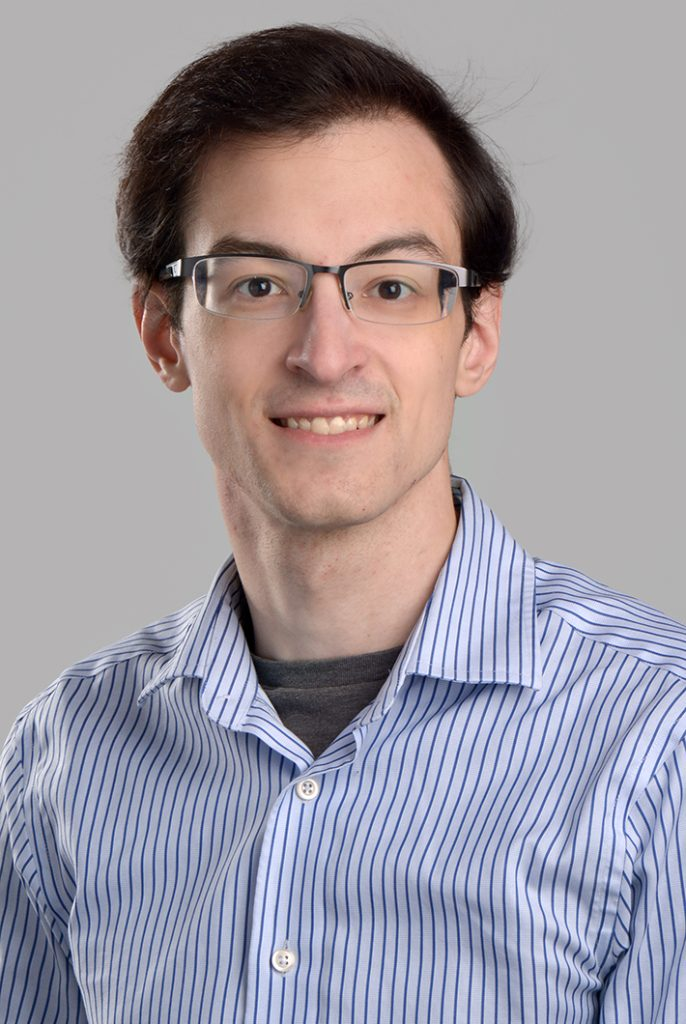
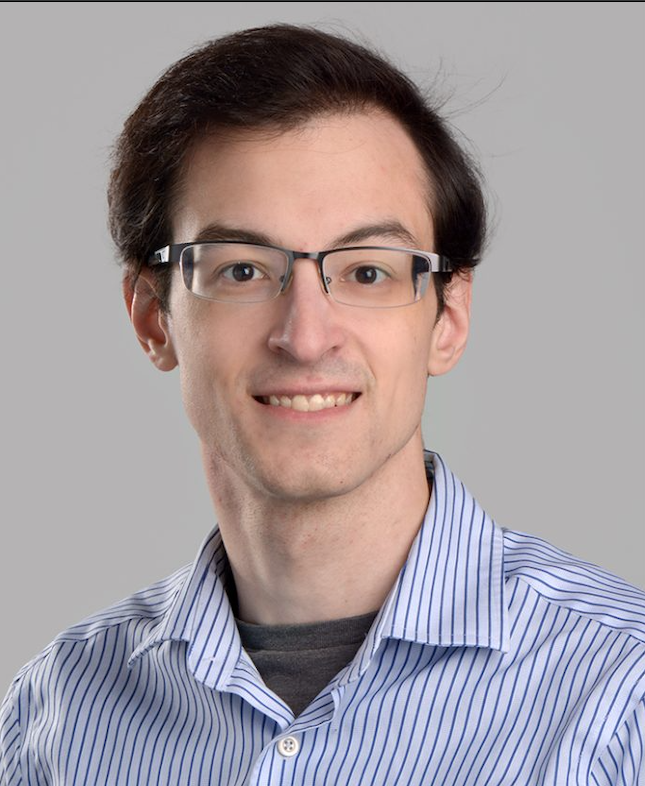
Updated team page

diff --git a/team.html b/team.html
@@ -20,17 +20,47 @@
   </header>
 
   <main>
-    <section class="team">
+    <section class="team current-members">
+      <h2>Current Members</h2>
       <div class="member">
         <img src="images/members/roberto.jpg" alt="Principal Investigator">
         <h3>Roberto Pili, M.D.</h3>
         <p>Principal Investigator</p>
+        <p> Roberto Pili, MD, is associate dean for cancer research and integrative oncology, and professor and chief of the Division of Hematology/Oncology in the Department of Medicine.<br><br>
+            As associate dean, he is responsible for building the academic infrastructure for innovative and collaborative cancer research at UB and on the Buffalo Niagara Medical Campus, particularly in the areas of immunotherapies, drug development and delivery, epigenetics and lifestyle-dietary interventions. He is the founder of the UB Cancer Research Consortium.<br><br>
+            An international recognized expert in genitourinary malignancies, Pili specializes in research on the role of epigenetic modifications in overcoming drug resistance and modulating response to immunotherapies. His laboratory is also studying the impact of dietary interventions as adjuvant tools in patients receiving cancer treatments.<br><br>
+            Pili holds several patent applications and is conducting several investigators-initiated clinical trials for the treatment of genitourinary malignancies. His laboratory is based at the school’s Clinical and Translational Science Institute, and his work is funded by grants from the National Cancer Institutes and the Department of Defense.<br><br>
+            Pili received his medical degree from Catholic University School of Medicine in Rome and completed fellowships with National Institutes of Health’s National Institute on Aging in biological chemistry and Johns Hopkins University in medical oncology. He has published 200 articles in peer-reviewed journals and serves as a reviewer for several medical journals and grants study sections of the National Cancer Institutes and the Department of Defense.</p>
+        <ul>
+          <li><a href="https://scholar.google.com/citations?user=gmHmhsMAAAAJ&hl=en&oi=ao" target="_blank">Google Scholar</a></li>
+          <li><a href="mailto:rpili@buffalo.edu" target="_blank">Email</a></li>
+        </ul>
       </div>
 
       <div class="member">
         <img src="images/members/sabrina.jpg" alt="PhD Candidate">
         <h3>Sabrina Orsi</h3>
         <p>PhD Candidate</p>
+        <p>Sabrina has been a Ph.D. student in the Pili Lab since 2022 through the Department of Pharmacology and Toxicology. She graduated from Virginia Tech Polytechnic Institute and State University with B.S.’s in Biochemistry and Microbiology in 2020. Before coming to Buffalo, Sabrina worked in a Neuroscience lab as an Undergraduate Research Assistant. Sabrina’s research interests include dietary interventions and metabolic based therapies. Her thesis project is focused on characterizing metabolic vulnerabilities in renal cell carcinoma with in vitro and ex vivo work in patient derived cell lines and xenograft models.</p>
+        <ul>
+          <li><a href="https://scholar.google.com/citations?user=frWz-q4AAAAJ&hl=en" target="_blank">Google Scholar</a></li>
+          <li><a href="https://www.linkedin.com/in/sabrina-orsi/" target="_blank">LinkedIn</a></li>
+          <li><a href="mailto:sorsi@buffalo.edu" target="_blank">Email</a>
+        </ul>
+      </div>
+    </section>
+
+    <section class="team former-members"
+      <h2>Former Members</h2>
+      <div class="member">
+        <img src="images/members/tyler.jpg" alt="Former PhD Student">
+        <h3>Tyler Gross</h3>
+        <p>PhD Student</p>
+        <p>Tyler was a PhD student in the Pili lab from 2024 until 2025, focusing on bioinformatic analysis and pipeline development. Tyler now works in industry as a bioinformatics solutions engineer.</p>
+      </div>
+      <div class="member">
+        <h3>John Smith</h3>
+        <p>Research Assistant (2019-2021)</p>
       </div>
     </section>
   </main>

diff --git a/index.html b/index.html
@@ -23,7 +23,7 @@
     <section>
       <h2>Welcome to Our Lab</h2>
       <p>
-        The Pili lab specializes in research on the role of epigenetic modifications in overcoming drug resistance and modulating response to immunotherapies.
+        The Pili laboratory is a translational oncology lab, focused on the role of epigenetic modifications in overcoming drug resistance and modulating response to immunotherapies.
         
         The laboratory is also studying the impact of dietary interventions as adjuvant tools in patients receiving cancer treatments.
       </p>
